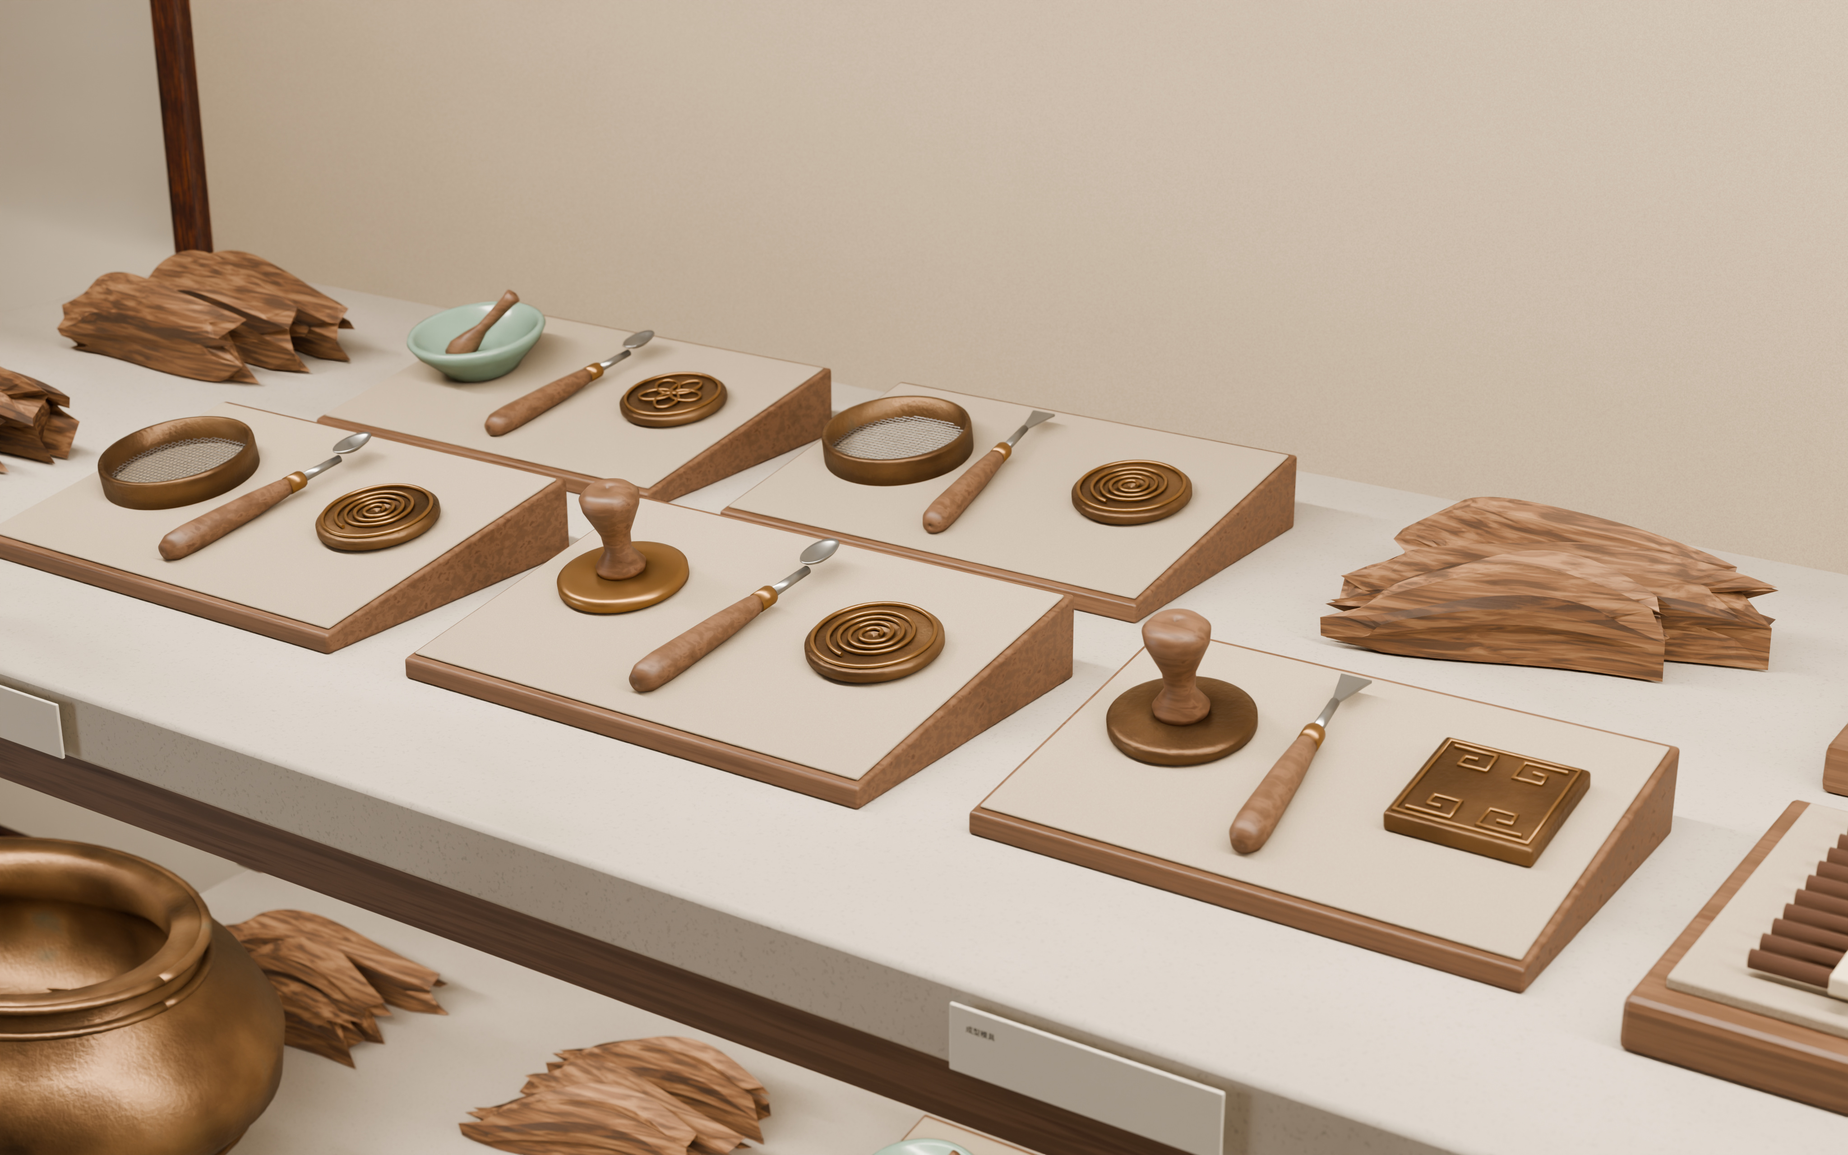
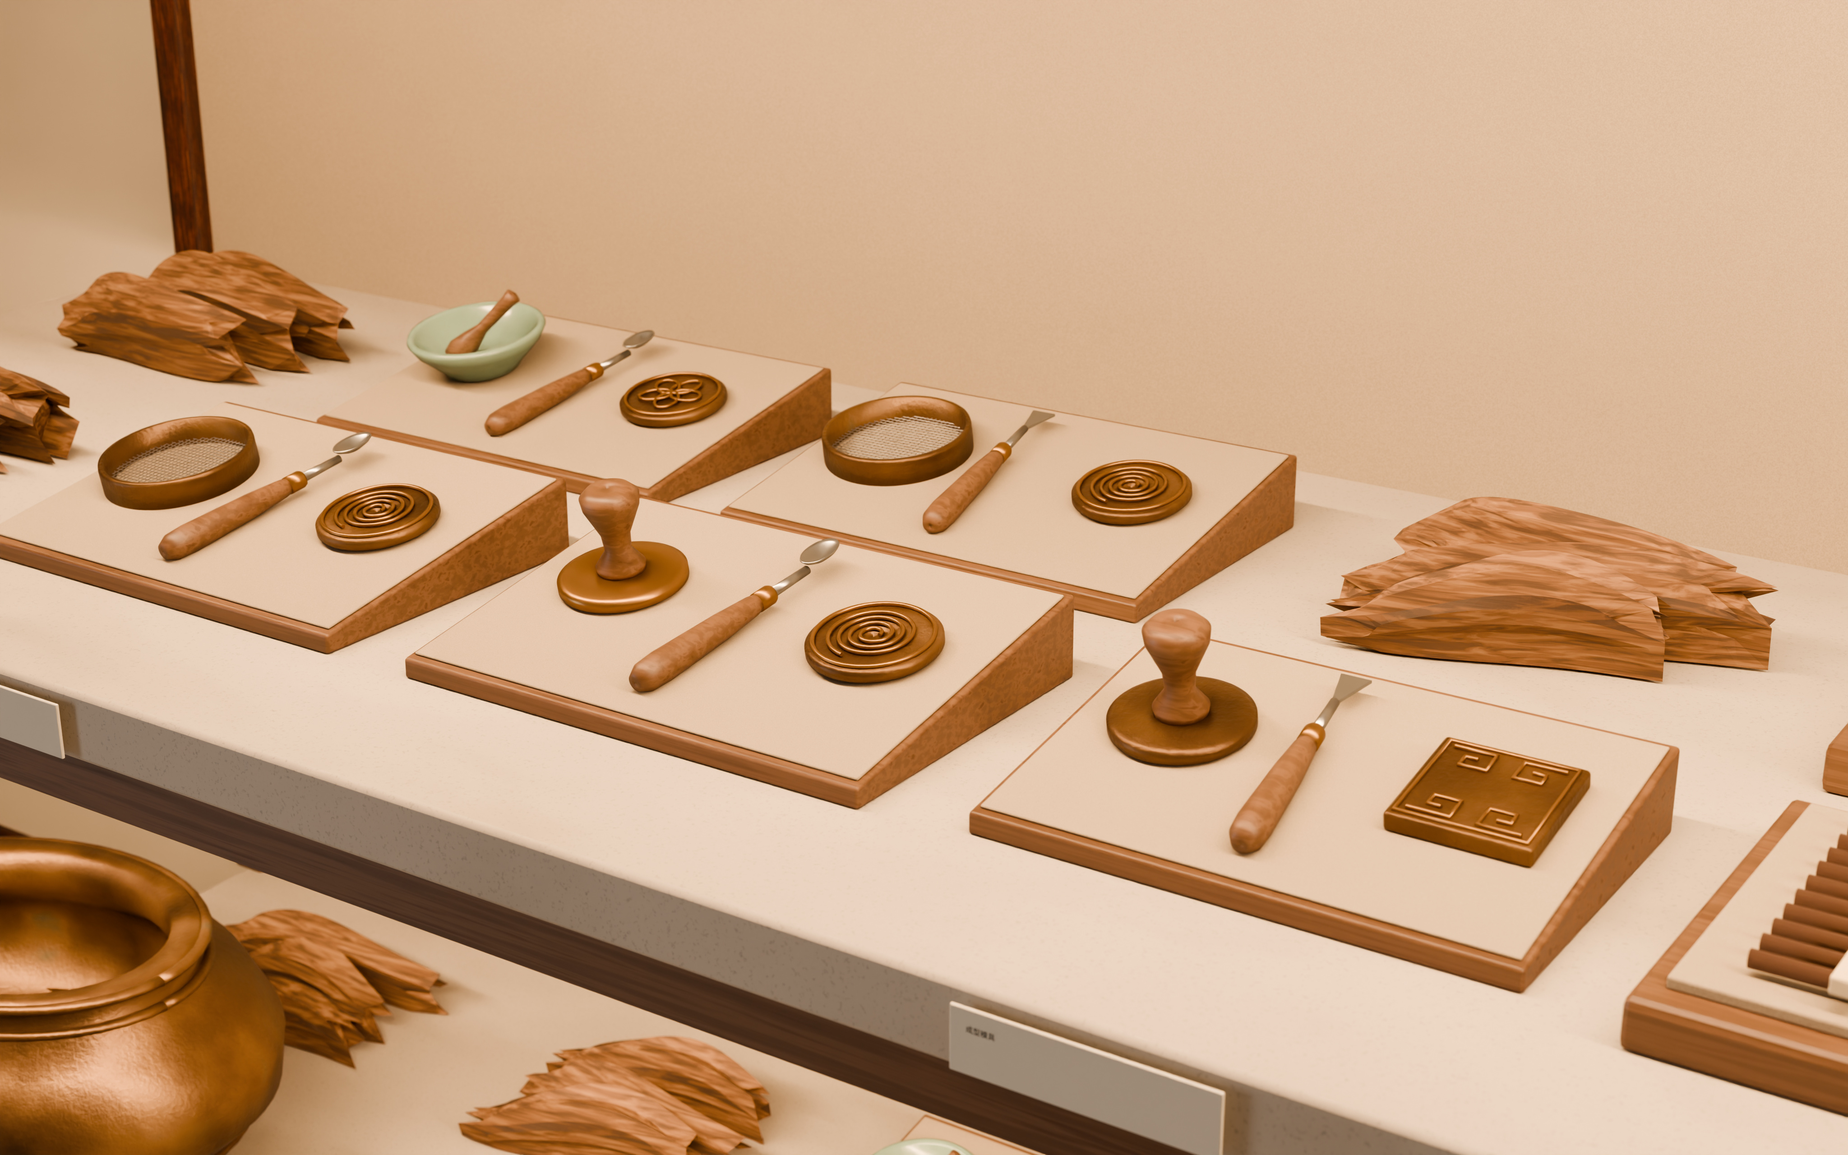
Publish the champagne-glass and warm exhibit lighting studies

diff --git a/interior/review.html b/interior/review.html
@@ -2,18 +2,38 @@
 <html lang="zh-CN">
 <head>
 <meta charset="utf-8"><meta name="viewport" content="width=device-width,initial-scale=1">
-<meta name="theme-color" content="#f5f1e9"><title>展品照明审核 · 莞香入庭</title>
+<meta name="theme-color" content="#f5f1e9"><title>展品暖光与香槟金灯具 · 莞香入庭</title>
 <style>
 :root{color-scheme:light;--paper:#f5f1e9;--ink:#302c25;--muted:#625c51;--rule:#cec6b8;--accent:#513d2e;--serif:"Songti SC","SimSun","Noto Serif CJK SC",serif}
-*{box-sizing:border-box}body{margin:0;font:16px/1.5 "Microsoft YaHei","PingFang SC",system-ui,sans-serif;background:var(--paper);color:var(--ink)}a{color:inherit;text-underline-offset:.24em}a:focus-visible,button:focus-visible{outline:3px solid #986434;outline-offset:3px}header,main{width:min(1720px,100%);margin:auto;padding-inline:clamp(16px,3.8vw,70px)}header{display:flex;justify-content:space-between;gap:12px;align-items:center;padding-block:17px;border-bottom:1px solid var(--rule)}.brand{font:600 clamp(21px,2.3vw,28px)/1.2 var(--serif);letter-spacing:.12em}header a{font-size:14px}main{padding-bottom:50px}.heading{padding-block:clamp(24px,3vw,48px) 20px}.heading p,p{color:var(--muted);margin:7px 0 0;font-size:clamp(14px,1.1vw,17px)}h1,h2,h3{margin:0;line-height:1.25}h1{font:600 clamp(33px,3.5vw,58px)/1.2 var(--serif);letter-spacing:.04em}h2{font:600 clamp(23px,2.2vw,35px)/1.3 var(--serif)}h3{font-size:17px;font-weight:600}.room{padding:20px 0 32px;border-top:1px solid var(--rule)}.roomhead{display:flex;align-items:baseline;gap:17px;margin-bottom:14px}.roomhead p{margin:0}.pair{display:grid;grid-template-columns:1fr 1fr;gap:clamp(12px,1.3vw,24px)}figure{margin:0;min-width:0}.art{display:block;background:#e6dfd3;border-radius:2px;overflow:hidden}.art img{display:block;width:100%;height:auto;aspect-ratio:8/5}.caption{display:flex;justify-content:space-between;align-items:start;gap:12px;padding-top:11px}.caption p{font-size:14px}.switch{display:inline-flex;border:1px solid #aaa08f;border-radius:3px;white-space:nowrap;overflow:hidden;flex-shrink:0}.switch button{font:inherit;font-size:13px;color:var(--accent);padding:6px 10px;min-height:34px;background:transparent;border:0;cursor:pointer}.switch button[aria-pressed="true"]{background:#453e33;color:white}.original{font-size:13px;white-space:nowrap;line-height:2}.art:focus-visible{outline-offset:2px}.sr{position:absolute;clip-path:inset(50%);height:1px;width:1px;overflow:hidden}
+*{box-sizing:border-box}body{margin:0;font:16px/1.5 "Microsoft YaHei","PingFang SC",system-ui,sans-serif;background:var(--paper);color:var(--ink)}a{color:inherit;text-underline-offset:.24em}a:focus-visible,button:focus-visible{outline:3px solid #986434;outline-offset:3px}header,main{width:min(1720px,100%);margin:auto;padding-inline:clamp(16px,3.8vw,70px)}header{display:flex;justify-content:space-between;gap:12px;align-items:center;padding-block:17px;border-bottom:1px solid var(--rule)}.brand{font:600 clamp(21px,2.3vw,28px)/1.2 var(--serif);letter-spacing:.12em}header a{font-size:14px}main{padding-bottom:50px}.heading{padding-block:clamp(24px,3vw,48px) 20px}.heading p,p{color:var(--muted);margin:7px 0 0;font-size:clamp(14px,1.1vw,17px)}h1,h2,h3{margin:0;line-height:1.25}h1{font:600 clamp(33px,3.5vw,58px)/1.2 var(--serif);letter-spacing:.04em}h2{font:600 clamp(23px,2.2vw,35px)/1.3 var(--serif)}h3{font-size:17px;font-weight:600}.room{padding:20px 0 32px;border-top:1px solid var(--rule)}.roomhead{display:flex;align-items:baseline;gap:17px;margin-bottom:14px}.roomhead p{margin:0}.pair{display:grid;grid-template-columns:1fr 1fr;gap:clamp(12px,1.3vw,24px)}figure{margin:0;min-width:0}.art{display:block;background:#e6dfd3;border-radius:2px;overflow:hidden}.art img{display:block;width:100%;height:auto;aspect-ratio:8/5}.caption{display:flex;justify-content:space-between;align-items:start;gap:12px;padding-top:11px}.caption p{font-size:14px}.switch{display:inline-flex;border:1px solid #aaa08f;border-radius:3px;white-space:nowrap;overflow:hidden;flex-shrink:0}.switch button{font:inherit;font-size:13px;color:var(--accent);padding:6px 10px;min-height:34px;background:transparent;border:0;cursor:pointer}.switch button[aria-pressed="true"]{background:#453e33;color:white}.lamp-zoom{font-size:13px}.original{font-size:13px;white-space:nowrap;line-height:2}.art:focus-visible{outline-offset:2px}.sr{position:absolute;clip-path:inset(50%);height:1px;width:1px;overflow:hidden}
 @media(max-width:780px){.pair{grid-template-columns:1fr;gap:25px}.roomhead{display:block}.roomhead p{margin-top:4px}.heading{padding-bottom:20px}.room{padding-block:18px 25px}.caption{padding-top:9px}.switch button{min-height:40px}}
 @media(max-width:410px){.caption{flex-wrap:wrap;gap:6px}.switch button{padding-inline:9px}.roomhead{margin-bottom:9px}}
 </style>
 </head>
 <body><header><span class="brand">莞香入庭</span><a href="./">现有三维环视</a></header>
-<main><div class="heading"><h1>展品照明审核</h1><p>四张原生渲染，4096 × 2560 像素。点开图片可看原图，两张全景可切换上版同机位。</p></div>
-<section class="room"><div class="roomhead"><h2>品香主厅</h2><p>中央山形熏炉与两侧青瓷各有独立投光。</p></div><div class="pair"><figure data-view="main-wide"><a class="art" aria-label="查看主展台与两侧青瓷原图" href="proof/main-wide.jpg"><img width="1280" height="800" src="proof/main-wide-preview.webp" data-current="proof/main-wide-preview.webp" data-large="proof/main-wide.jpg" data-prior="proof/main-after.jpg" data-currentalt="品香主厅，主展台与两侧青瓷" data-prioralt="品香主厅上版同机位" alt="品香主厅，主展台与两侧青瓷"></a><figcaption class="caption"><div><h3>主展台与两侧青瓷</h3><p>留意背景的亮度与青瓷口沿的釉光。 <a class="original" href="proof/main-wide.jpg">查看原图</a></p></div><div class="switch" role="group" aria-label="品香主厅同机位比较"><button type="button" data-which="current" aria-pressed="true">本次</button><button type="button" data-which="prior" aria-pressed="false">上版</button></div></figcaption></figure><figure data-view="main-detail"><a class="art" aria-label="查看山形熏炉原图" href="proof/main-detail.jpg"><img width="1280" height="800" src="proof/main-detail-preview.webp" data-current="proof/main-detail-preview.webp" data-large="proof/main-detail.jpg" data-prior="" data-currentalt="品香主厅，山形熏炉" data-prioralt="品香主厅上版同机位" alt="品香主厅，山形熏炉"></a><figcaption class="caption"><div><h3>山形熏炉</h3><p>近看山形盖的透烟孔、铜面和三足落点。 <a class="original" href="proof/main-detail.jpg">查看原图</a></p></div></figcaption></figure></div></section>
-<section class="room"><div class="roomhead"><h2>传香工坊</h2><p>上、下层板前沿向柜内投光，方灯照亮操作桌。</p></div><div class="pair"><figure data-view="workshop-wide"><a class="art" aria-label="查看手作桌与工序柜原图" href="proof/workshop-wide.jpg"><img width="1280" height="800" src="proof/workshop-wide-preview.webp" data-current="proof/workshop-wide-preview.webp" data-large="proof/workshop-wide.jpg" data-prior="proof/cra-after.jpg" data-currentalt="传香工坊，手作桌与工序柜" data-prioralt="传香工坊上版同机位" alt="传香工坊，手作桌与工序柜"></a><figcaption class="caption"><div><h3>手作桌与工序柜</h3><p>对照方灯、木桌与后方两层陈列的亮度。 <a class="original" href="proof/workshop-wide.jpg">查看原图</a></p></div><div class="switch" role="group" aria-label="传香工坊同机位比较"><button type="button" data-which="current" aria-pressed="true">本次</button><button type="button" data-which="prior" aria-pressed="false">上版</button></div></figcaption></figure><figure data-view="workshop-detail"><a class="art" aria-label="查看工具柜上层原图" href="proof/workshop-detail.jpg"><img width="1280" height="800" src="proof/workshop-detail-preview.webp" data-current="proof/workshop-detail-preview.webp" data-large="proof/workshop-detail.jpg" data-prior="" data-currentalt="传香工坊，工具柜上层" data-prioralt="传香工坊上版同机位" alt="传香工坊，工具柜上层"></a><figcaption class="caption"><div><h3>工具柜上层</h3><p>近看香匙、篆模和木托之间的接触阴影。 <a class="original" href="proof/workshop-detail.jpg">查看原图</a></p></div></figcaption></figure></div></section>
+<main><div class="heading"><h1>展品暖光与香槟金灯具</h1><p>每张均可与上版同机位比较，点开可查看 4096 × 2560 原图。两张全景下方另附灯具细节。</p></div>
+<section class="room"><div class="roomhead"><h2>品香主厅</h2></div><div class="pair"><figure data-view="main-wide">
+              <a class="art" href="proof/main-wide.jpg?v=r132" aria-label="查看主展墙与中央展台原图"><img src="proof/main-wide-preview.webp?v=r132" width="1280" height="800" alt="品香主厅，主展墙与中央展台" data-current="proof/main-wide-preview.webp?v=r132" data-large="proof/main-wide.jpg?v=r132" data-prior="proof/base-main-wide.jpg?v=r132" data-currentalt="品香主厅，主展墙与中央展台" data-prioralt="品香主厅，主展墙与中央展台（上版）"></a>
+              <figcaption class="caption"><div><h3>主展墙与中央展台</h3><p data-note data-current="两盏压纹玻璃壁灯分列展墙两侧。" data-prior="上版的主展墙与中央展台。">两盏压纹玻璃壁灯分列展墙两侧。</p>
+              <a class="original" href="proof/main-wide.jpg?v=r132">查看原图</a>　<a class="lamp-zoom" href="proof/wall-lamp.jpg?v=r132">放大壁灯</a></div>
+              <div class="switch" role="group" aria-label="主展墙与中央展台同机位比较"><button type="button" data-which="current" aria-pressed="true">本次</button><button type="button" data-which="prior" aria-pressed="false">上版</button></div></figcaption>
+              </figure><figure data-view="main-detail">
+              <a class="art" href="proof/main-detail.jpg?v=r132" aria-label="查看山形熏炉原图"><img src="proof/main-detail-preview.webp?v=r132" width="1280" height="800" alt="品香主厅，山形熏炉" data-current="proof/main-detail-preview.webp?v=r132" data-large="proof/main-detail.jpg?v=r132" data-prior="proof/base-main-detail.jpg?v=r132" data-currentalt="品香主厅，山形熏炉" data-prioralt="品香主厅，山形熏炉（上版）"></a>
+              <figcaption class="caption"><div><h3>山形熏炉</h3><p data-note data-current="暖光掠过山脊和透烟孔，铜面的亮暗随起伏变化。" data-prior="上版铜炉表面的色温与反射。">暖光掠过山脊和透烟孔，铜面的亮暗随起伏变化。</p>
+              <a class="original" href="proof/main-detail.jpg?v=r132">查看原图</a></div>
+              <div class="switch" role="group" aria-label="山形熏炉同机位比较"><button type="button" data-which="current" aria-pressed="true">本次</button><button type="button" data-which="prior" aria-pressed="false">上版</button></div></figcaption>
+              </figure></div></section>
+<section class="room"><div class="roomhead"><h2>传香工坊</h2></div><div class="pair"><figure data-view="workshop-wide">
+              <a class="art" href="proof/workshop-wide.jpg?v=r132" aria-label="查看手作桌与方灯原图"><img src="proof/workshop-wide-preview.webp?v=r132" width="1280" height="800" alt="传香工坊，手作桌与方灯" data-current="proof/workshop-wide-preview.webp?v=r132" data-large="proof/workshop-wide.jpg?v=r132" data-prior="proof/base-workshop-wide.jpg?v=r132" data-currentalt="传香工坊，手作桌与方灯" data-prioralt="传香工坊，手作桌与方灯（上版）"></a>
+              <figcaption class="caption"><div><h3>手作桌与方灯</h3><p data-note data-current="细金属框围合双层灯罩，灯下是原有的操作桌。" data-prior="上版的单层方灯与操作桌。">细金属框围合双层灯罩，灯下是原有的操作桌。</p>
+              <a class="original" href="proof/workshop-wide.jpg?v=r132">查看原图</a>　<a class="lamp-zoom" href="proof/pendant.jpg?v=r132">放大方灯</a></div>
+              <div class="switch" role="group" aria-label="手作桌与方灯同机位比较"><button type="button" data-which="current" aria-pressed="true">本次</button><button type="button" data-which="prior" aria-pressed="false">上版</button></div></figcaption>
+              </figure><figure data-view="workshop-detail">
+              <a class="art" href="proof/workshop-detail.jpg?v=r132" aria-label="查看工序工具柜原图"><img src="proof/workshop-detail-preview.webp?v=r132" width="1280" height="800" alt="传香工坊，工序工具柜" data-current="proof/workshop-detail-preview.webp?v=r132" data-large="proof/workshop-detail.jpg?v=r132" data-prior="proof/base-workshop-detail.jpg?v=r132" data-currentalt="传香工坊，工序工具柜" data-prioralt="传香工坊，工序工具柜（上版）"></a>
+              <figcaption class="caption"><div><h3>工序工具柜</h3><p data-note data-current="层板前沿的灯光落在香匙、篆模和木托上。" data-prior="上版工序柜的层板照明。">层板前沿的灯光落在香匙、篆模和木托上。</p>
+              <a class="original" href="proof/workshop-detail.jpg?v=r132">查看原图</a></div>
+              <div class="switch" role="group" aria-label="工序工具柜同机位比较"><button type="button" data-which="current" aria-pressed="true">本次</button><button type="button" data-which="prior" aria-pressed="false">上版</button></div></figcaption>
+              </figure></div></section>
 </main>
 <script>
 for(const group of document.querySelectorAll('.switch')){
@@ -22,6 +42,8 @@ for(const group of document.querySelectorAll('.switch')){
     btn.onclick=()=>{
       const prior=btn.dataset.which==='prior';img.src=prior?img.dataset.prior:img.dataset.current;
       img.alt=prior?img.dataset.prioralt:img.dataset.currentalt;link.href=prior?img.dataset.prior:img.dataset.large;original.href=link.href;
+      const note=figure.querySelector('[data-note]'),zoom=figure.querySelector('.lamp-zoom');
+      note.textContent=prior?note.dataset.prior:note.dataset.current;if(zoom)zoom.hidden=prior;
       for(const sibling of group.querySelectorAll('button'))sibling.setAttribute('aria-pressed',String(sibling===btn));
     };
   }

diff --git a/index.html b/index.html
@@ -1,6 +1,6 @@
 <!doctype html><html lang="zh-CN"><meta charset="utf-8"><meta name="viewport" content="width=device-width,initial-scale=1"><title>莞香入庭 · 莞香文化展馆设计</title>
 <style>:root{color-scheme:light;--ink:#29382e;--paper:#ebe5d8;--line:#c9c4b4}*{box-sizing:border-box}body{margin:0;background:var(--paper);color:var(--ink);font-family:"Microsoft YaHei",sans-serif;line-height:1.65}header,main,footer{max-width:1320px;margin:auto;padding:28px}header{display:flex;justify-content:space-between;gap:24px;align-items:center;border-bottom:1px solid var(--line)}h1{font-family:SimSun,serif;font-size:32px;font-weight:400;margin:0}p{margin:8px 0}.eyebrow{font-size:12px;letter-spacing:.1em}nav{display:flex;flex-wrap:wrap;gap:8px}a{color:inherit}nav a,.button{display:inline-block;padding:10px 15px;border:1px solid #8c9789;text-decoration:none;border-radius:3px;background:#f7f3e9}a:focus-visible,button:focus-visible{outline:3px solid #8a6b45;outline-offset:3px}h2{font-size:21px;font-weight:500;margin:0 0 10px}section{padding:28px 0;border-bottom:1px solid var(--line)}.intro{max-width:850px}.muted{color:#667063;font-size:14px}.board{width:100%;display:block;background:#e7e1d3}.image-link{display:block}.image-link:hover{outline:1px solid #87977e}.detail{display:grid;grid-template-columns:1.25fr 1fr;gap:28px;align-items:start}.detail img{width:100%;display:block}.detail .flow{max-width:500px;margin:auto}.legend{display:flex;gap:18px;flex-wrap:wrap;font-size:14px}.legend span:before{content:"";display:inline-block;width:24px;border-top:2px dashed var(--c);margin:0 7px 4px 0}.table-wrap{overflow-x:auto}table{border-collapse:collapse;width:100%;font-size:14px}td,th{padding:8px 12px;border-bottom:1px solid var(--line);text-align:left}th{font-weight:500}.assets{display:grid;grid-template-columns:1fr 1fr;gap:20px}.asset{border:1px solid var(--line);padding:16px}.transparent{background-color:#fff;background-image:linear-gradient(45deg,#e1e3dd 25%,transparent 25%),linear-gradient(-45deg,#e1e3dd 25%,transparent 25%),linear-gradient(45deg,transparent 75%,#e1e3dd 75%),linear-gradient(-45deg,transparent 75%,#e1e3dd 75%);background-size:24px 24px;background-position:0 0,0 12px,12px -12px,-12px 0;height:210px;display:flex;align-items:center;justify-content:center}.transparent img{max-width:100%;max-height:210px;object-fit:contain}.downloads{display:flex;flex-wrap:wrap;gap:8px;margin-top:14px}footer{font-size:13px;color:#667063}button{font:inherit;padding:8px 12px;cursor:pointer;border:1px solid #8c9789;background:#f7f3e9;color:inherit}.dark .transparent{background:#343b36}@media(max-width:650px){header{display:block;padding:22px 16px}header nav{margin-top:18px}main,footer{padding:16px}h1{font-size:27px}.detail,.assets{grid-template-columns:1fr}.detail{gap:20px}nav a{font-size:14px;padding:8px 12px}section{padding:22px 0}.transparent{height:170px}.transparent img{max-height:170px}}.photographs{display:grid;grid-template-columns:1fr 1fr;gap:24px}.photographs figure{margin:0;min-width:0}.photographs figure:first-child{grid-column:1/-1}.photographs img{width:100%;height:auto;display:block}.photographs figcaption{margin:8px 0 0}.photographs strong{font-weight:500}.photographs p{font-size:14px;margin:2px 0;color:#465147}@media(max-width:650px){.photographs{grid-template-columns:1fr;gap:22px}}.rendergrid{display:grid;grid-template-columns:repeat(2,minmax(0,1fr));gap:22px;margin-top:16px}.rendergrid figure{margin:0;min-width:0}.rendergrid img{display:block;width:100%;height:auto;max-height:500px;object-fit:contain;object-position:left bottom}.rendergrid figcaption{padding:7px 0}.rendergrid h3{font-weight:500;font-size:18px;margin:0}.rendergrid span,.rendlinks a{font-size:13px}.rendlinks{display:flex;gap:15px}@media(max-width:650px){.rendergrid{grid-template-columns:1fr}}#section-study{scroll-margin:20px}#section-study h2{font:normal clamp(24px,3vw,38px)/1.3 SimSun,serif;margin:16px 0}#section-study p{line-height:1.7}.study-zoom{display:block}.study-zoom img{display:block;width:100%;height:auto}.study-controls,.study-links{display:flex;flex-wrap:wrap;gap:10px 22px;align-items:center}.study-controls button{color:#304236;background:transparent;border:1px solid #909989;padding:7px 15px;font:inherit;cursor:pointer}.study-controls button[aria-pressed=true]{color:#fff;background:#34453a;border-color:#34453a}.study-links a{color:#314b3d;text-underline-offset:3px}#section-study{scroll-margin:20px}#section-study h2{font:normal clamp(24px,3vw,38px)/1.3 SimSun,serif;margin:16px 0}#section-study p{line-height:1.7}.study-zoom{display:block}.study-zoom img{display:block;width:100%;height:auto}.study-roll{margin:20px 0 26px;background:#f8f7f1;border:1px solid #c9c4b4;padding:8px}.study-controls,.study-links{display:flex;flex-wrap:wrap;gap:10px 22px;align-items:center}.study-controls button{color:#304236;background:transparent;border:1px solid #909989;padding:7px 15px;font:inherit;cursor:pointer}.study-controls button[aria-pressed=true]{color:#fff;background:#34453a;border-color:#34453a}.study-links a{color:#314b3d;text-underline-offset:3px}</style>
-<body data-release="M140-r124"><header><div><h1>莞香入庭</h1><p>莞香文化展馆设计</p></div><nav aria-label="目录"><a href="interior/">室内三维导览</a><a href="interior/review.html">展品照明审核图</a><a href="#renders">展板效果图</a><a href="#photos">已审视角</a><a href="#board">完整展板</a><a href="downloads/guanxiang-board-r124-print.pdf">展板 PDF</a><a href="#section-study">剖面线稿小样</a></nav></header><main>
+<body data-release="M140-r124"><header><div><h1>莞香入庭</h1><p>莞香文化展馆设计</p></div><nav aria-label="目录"><a href="interior/">室内三维导览</a><a href="interior/review.html">暖光与灯具审核图</a><a href="#renders">展板效果图</a><a href="#photos">已审视角</a><a href="#board">完整展板</a><a href="downloads/guanxiang-board-r124-print.pdf">展板 PDF</a><a href="#section-study">剖面线稿小样</a></nav></header><main>
 <section id="board"><h2>完整展板</h2>
 <p class="muted">建筑剖面线稿与远林已合入“历史文化、概念提取、室内立面与剖面”三个板块。点击展板可放大查看。</p>
 <a class="image-link" href="assets/r124-board-web.jpg"><img id="hero" class="board" src="assets/r124-board-web.jpg" alt="莞香入庭完整展板，建筑剖面线稿与远林叠入历史文化、概念提取和室内立面与剖面区域"></a>
